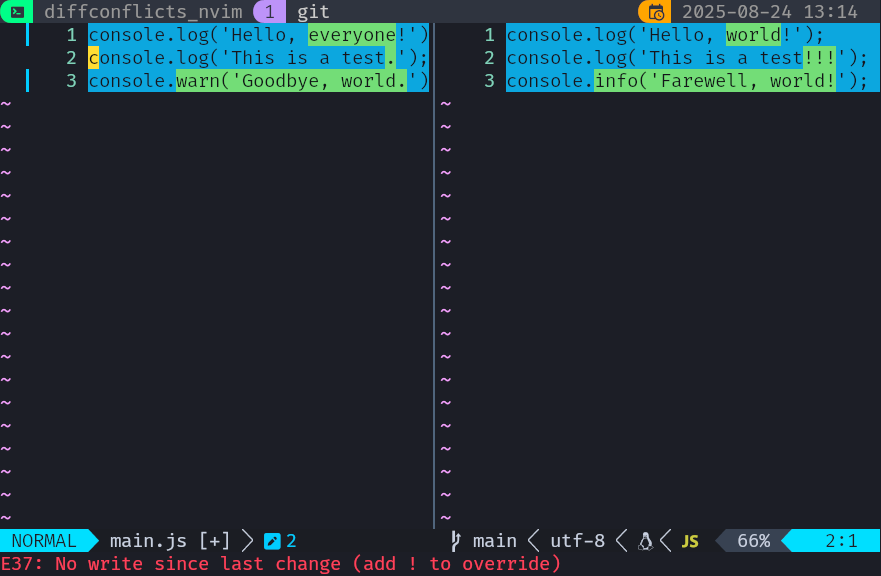
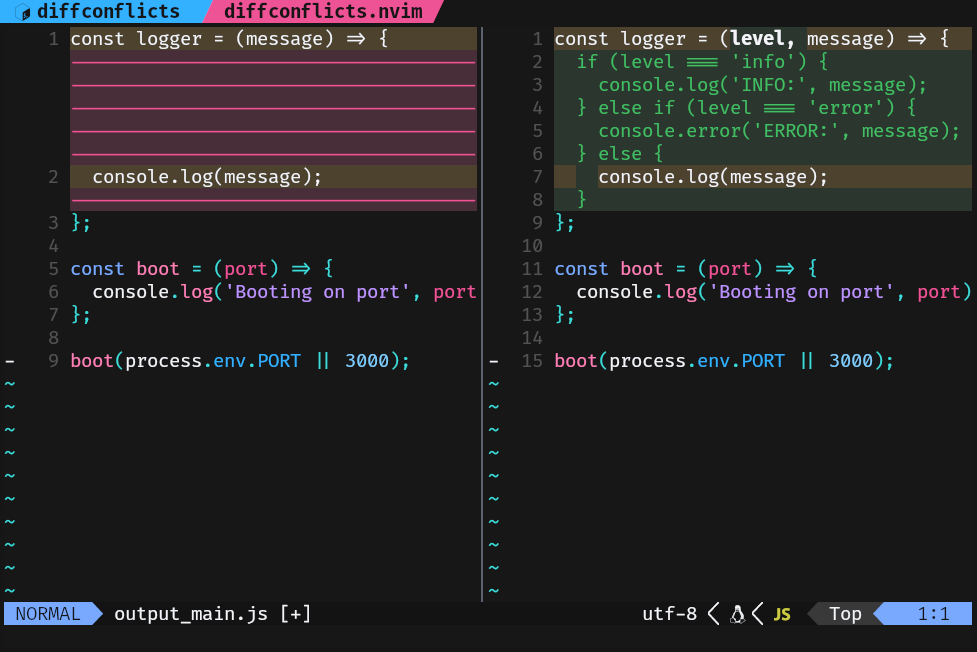
chore(docs): update README.md and screenshot.png

diff --git a/README.md b/README.md
@@ -207,6 +207,42 @@ merge-tool-edits-conflict-markers = true
 
 </details>
 
+## Theming
+
+diffconflicts.nvim uses Neovim's built-in diff mode (`:diffthis`) and
+doesn't define its own highlight groups.
+Appearance is controlled entirely by your
+colorscheme via the standard Vim diff highlight groups:
+
+
+| Group | Highlights |
+|-------|------------|
+| `DiffAdd` | Entire added lines |
+| `DiffDelete` | Entire deleted lines |
+| `DiffChange` | Unchanged portions of modified lines |
+| `DiffText` | Changed characters within a modified line |
+| `DiffTextAdd` | Added characters within a line (Neovim 0.10+) |
+
+
+For best results,
+use a colorscheme that gives each group a distinct tinted
+background.
+
+So line-level changes (add/change/delete) are easy to scan, with
+character-level changes (`DiffText`) using a contrasting hue.
+
+[vhs-era-theme.nvim](https://github.com/mistweaverco/vhs-era-theme.nvim) defines
+these groups with vivid tinted backgrounds out of the box.
+
+To override diff colors manually, add this to your config:
+
+```lua
+vim.api.nvim_set_hl(0, "DiffAdd",    { bg = "#419f5c", fg = "#42be65" })
+vim.api.nvim_set_hl(0, "DiffChange", { bg = "#d9ad52", fg = "#f2f4f8" })
+vim.api.nvim_set_hl(0, "DiffDelete", { bg = "#dd3c82", fg = "#ee5396" })
+vim.api.nvim_set_hl(0, "DiffText",   { bg = "#6a9cff", fg = "#f2f4f8", bold = true })
+```
+
 ## Usage
 
 To resolve merge conflicts, run: